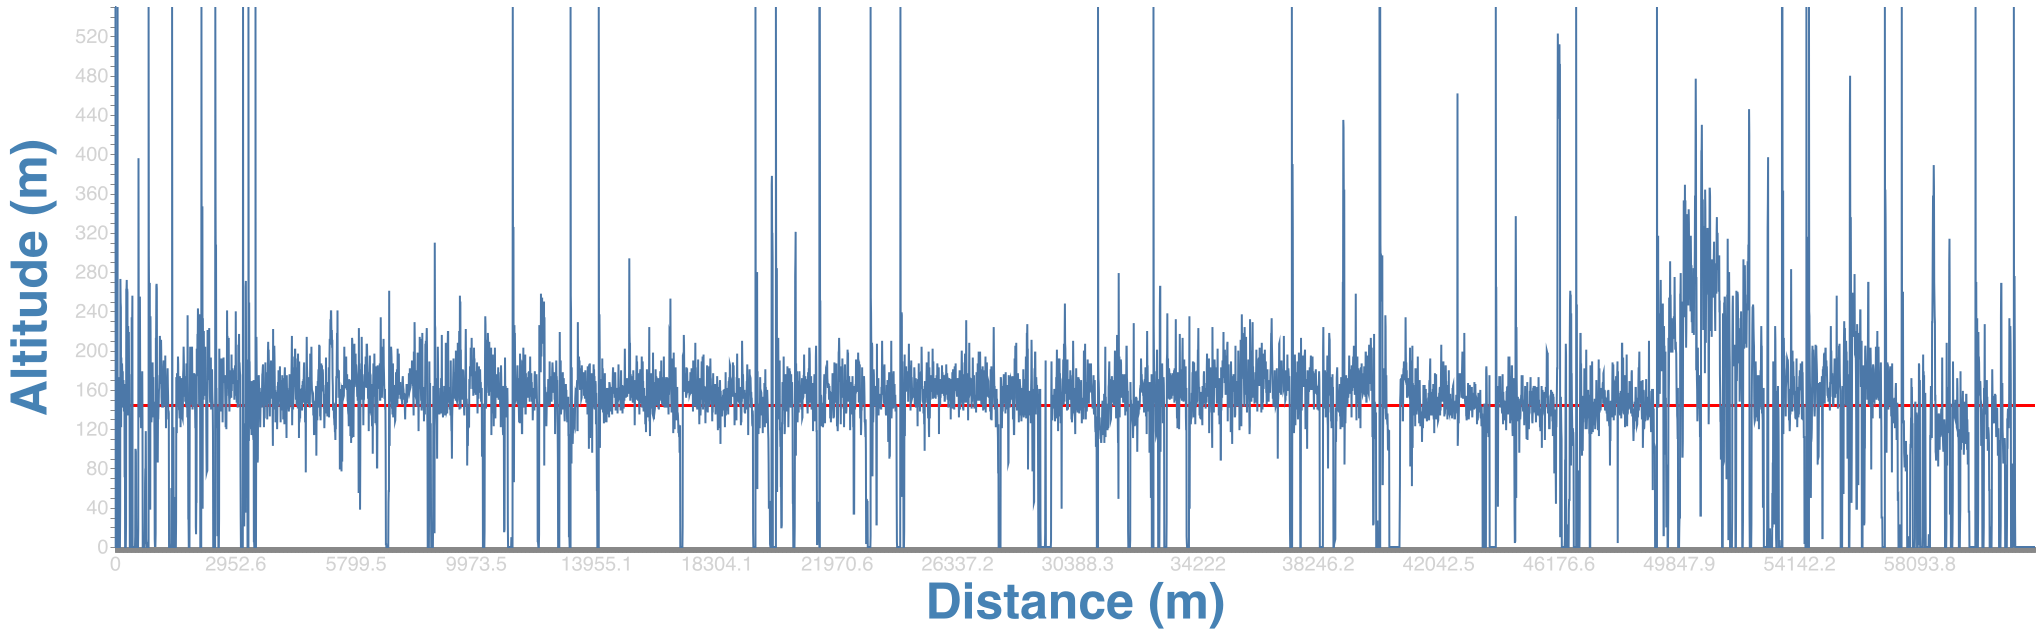
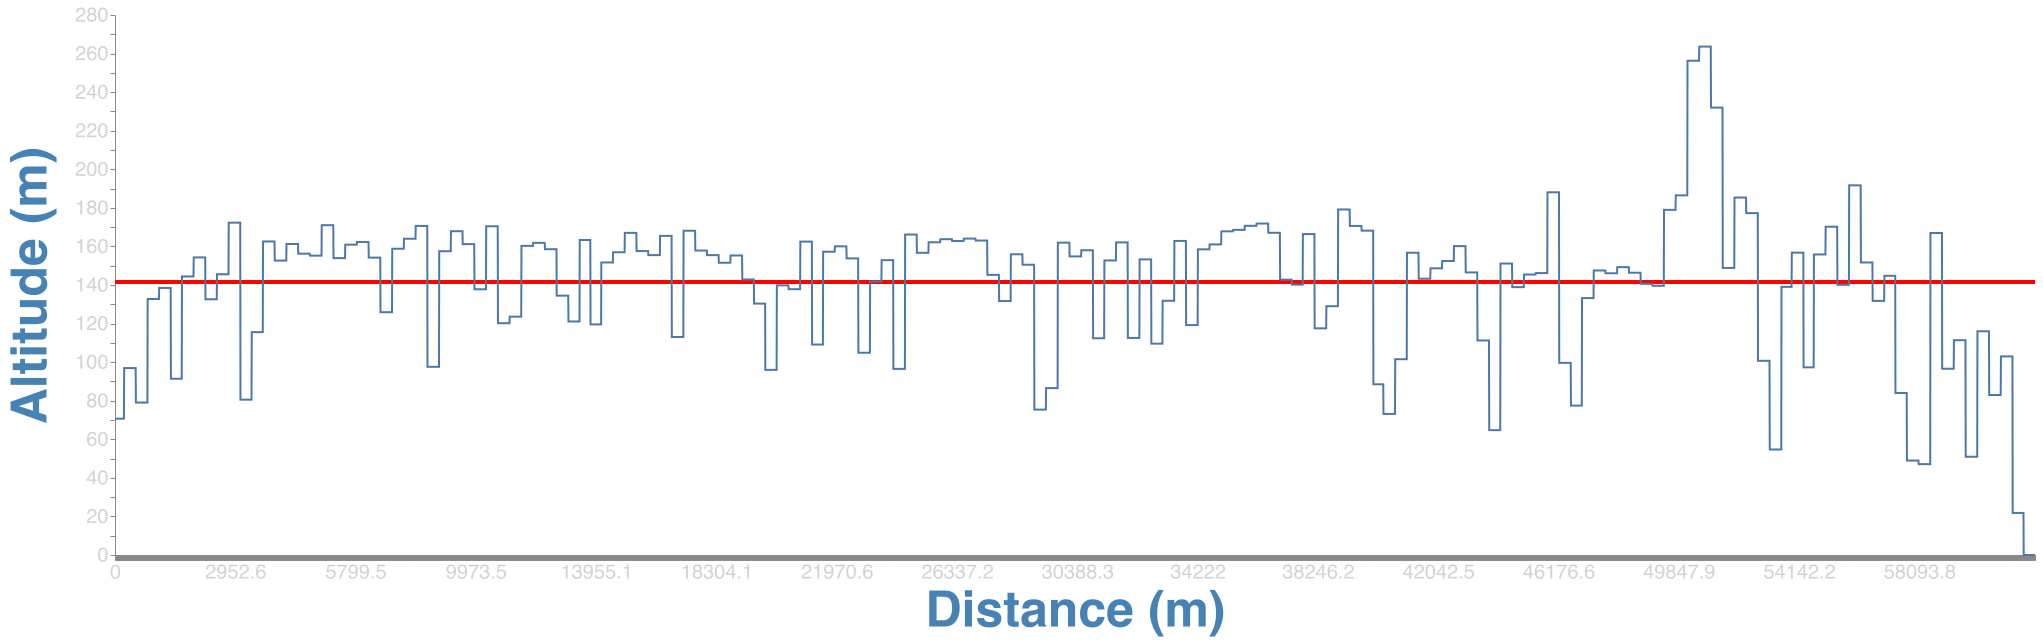
Updated vega graphs to not need a meters to pixel conversion

Changed region(s): [[0.0, 0.0, 1.0, 0.9005], [0.4626, 0.9305, 0.5551, 0.9605], [0.1542, 0.8705, 0.185, 0.9005]]

diff --git a/src/graphRides.js b/src/graphRides.js
@@ -110,9 +110,9 @@ const lineChartSpec = {
 					stroke: { value: "red" },
 					strokeWidth: { value: 3 },
 					x: { value: 0 },
-					y: { signal: "mean_y" },
+					y: { scale: "y", signal: "mean_y" },
 					x2: { value: graphWidthInPixels },
-					y2: { signal: "mean_y" },
+					y2: { scale: "y", signal: "mean_y" },
 					opacity: {
 						expr: "datum[mean_y] == 0 ? 0 : 1",
 					},
@@ -125,10 +125,10 @@ const lineChartSpec = {
 			from: { data: "hills" },
 			encode: {
 				enter: {
-					x: { field: "xStart" },
+					x: { scale: "x", field: "xStart" },
 					y: { value: 0 },
-					height: { value: graphHeightInPixels },
-					width: { field: "xWidth" },
+					x2: { scale: "x", field: "xWidth" },
+					y2: { value: graphHeightInPixels },
 					fill: { field: "color" },
 					fillOpacity: { value: 0.5 },
 				},
@@ -175,7 +175,7 @@ const dataPointSpec = {
 
 const intervalSpec = {
 	xStart: 0,
-	xWidth: 0,
+	xEnd: 0,
 	color: "red",
 };
 
@@ -193,7 +193,7 @@ function drawDataStream(
 	distanceStream,
 	intervalSpecs,
 	name,
-	ruleLine = graphHeightInPixels
+	ruleLine = 0
 ) {
 	// Clone a new spec for the ride chart
 	let rideChartSpec = JSON.parse(JSON.stringify(lineChartSpec));
@@ -212,7 +212,7 @@ function drawDataStream(
 	}
 
 	// Set the rule line
-	rideChartSpec.signals[1].value = graphHeightInPixels - ruleLine;
+	rideChartSpec.signals[1].value = ruleLine;
 
 	// create a new view instance for a given Vega JSON spec
 	var view = new vega.View(vega.parse(rideChartSpec))
@@ -243,11 +243,9 @@ function drawRideAltitude(ride) {
 
 	for (let hill of ride.hills) {
 		let interval = Object.create(intervalSpec);
-		let dataLength = dataStream.length;
 
-		let widthInIdx = hill.idxEnd - hill.idxStart;
-		interval.xStart = (hill.idxStart / dataLength) * graphWidthInPixels;
-		interval.xWidth = (widthInIdx / dataLength) * graphWidthInPixels;
+		interval.xStart = distanceStream[hill.idxStart];
+		interval.xEnd = distanceStream[hill.idxEnd];
 		interval.color = hill.averageGradient > 0 ? "red" : "green";
 
 		intervalSpecs.push(interval);
@@ -270,12 +268,9 @@ function drawRidePower(ride) {
 
 	for (let interval of ride.intervals) {
 		let intervalSpec = Object.create(intervalSpec);
-		let dataLength = dataStream.length;
 
-		let widthInIdx = interval.idxEnd - interval.idxStart;
-		intervalSpec.xStart =
-			(interval.idxStart / dataLength) * graphWidthInPixels;
-		intervalSpec.xWidth = (widthInIdx / dataLength) * graphWidthInPixels;
+		intervalSpec.xStart = distanceStream[interval.idxStart];
+		intervalSpec.xEnd = distanceStream[interval.idxEnd];
 		intervalSpec.color = "red";
 
 		intervalSpecs.push(interval);

diff --git a/src/rideClassifier.js b/src/rideClassifier.js
@@ -122,6 +122,31 @@ function findIntervals(ride) {
 }
 
 /**
+ *	Cleans the power stream of a ride by smoothing the power file and removing
+ *	erroneous data
+ *
+ * @param {rideEntry} ride - Ride object to clean the power stream of
+ *
+ * @returns {Array} - Cleaned power stream
+ */
+function getCleanPowerStream(ride) {
+	let cleanPowerStream = [...ride.power_stream.data];
+
+	for (i = 0; i < cleanPowerStream.length - 51; i += 50) {
+		let sum = 0;
+		for (j = i; j < i + 50; j++) {
+			sum += cleanPowerStream[j];
+		}
+		let average = sum / 50;
+		for (j = i; j < i + 50; j++) {
+			cleanPowerStream[j] = average;
+		}
+	}
+
+	return cleanPowerStream;
+}
+
+/**
  * Returns the average watts for uphill sections of a ride
  *
  * @param {rideEntry} ride - Ride object to calculate uphill watts from
@@ -524,4 +549,5 @@ module.exports = {
 	hillEntry,
 	calculateMissingRideValues,
 	findHills,
+	getCleanPowerStream,
 };

diff --git a/src/index.js b/src/index.js
@@ -5,6 +5,7 @@ const {
 	typeOfRide,
 	calculateMissingRideValues,
 	findHills,
+	getCleanPowerStream,
 } = require("./rideClassifier.js");
 const { drawRideAltitude, drawRidePower } = require("./graphRides.js");
 
@@ -139,6 +140,7 @@ function testCalculateMissingRideValuesArray() {
 		const data = fs.readFileSync("../resources/activites.json", "utf8");
 		let rides = JSON.parse(data);
 		calculateMissingRideValuesArray(rides, 250);
+		rides[0].power_stream.data = getCleanPowerStream(rides[0]);
 		drawRidePower(rides[0]);
 		drawRideAltitude(rides[0]);
 	} catch (err) {
